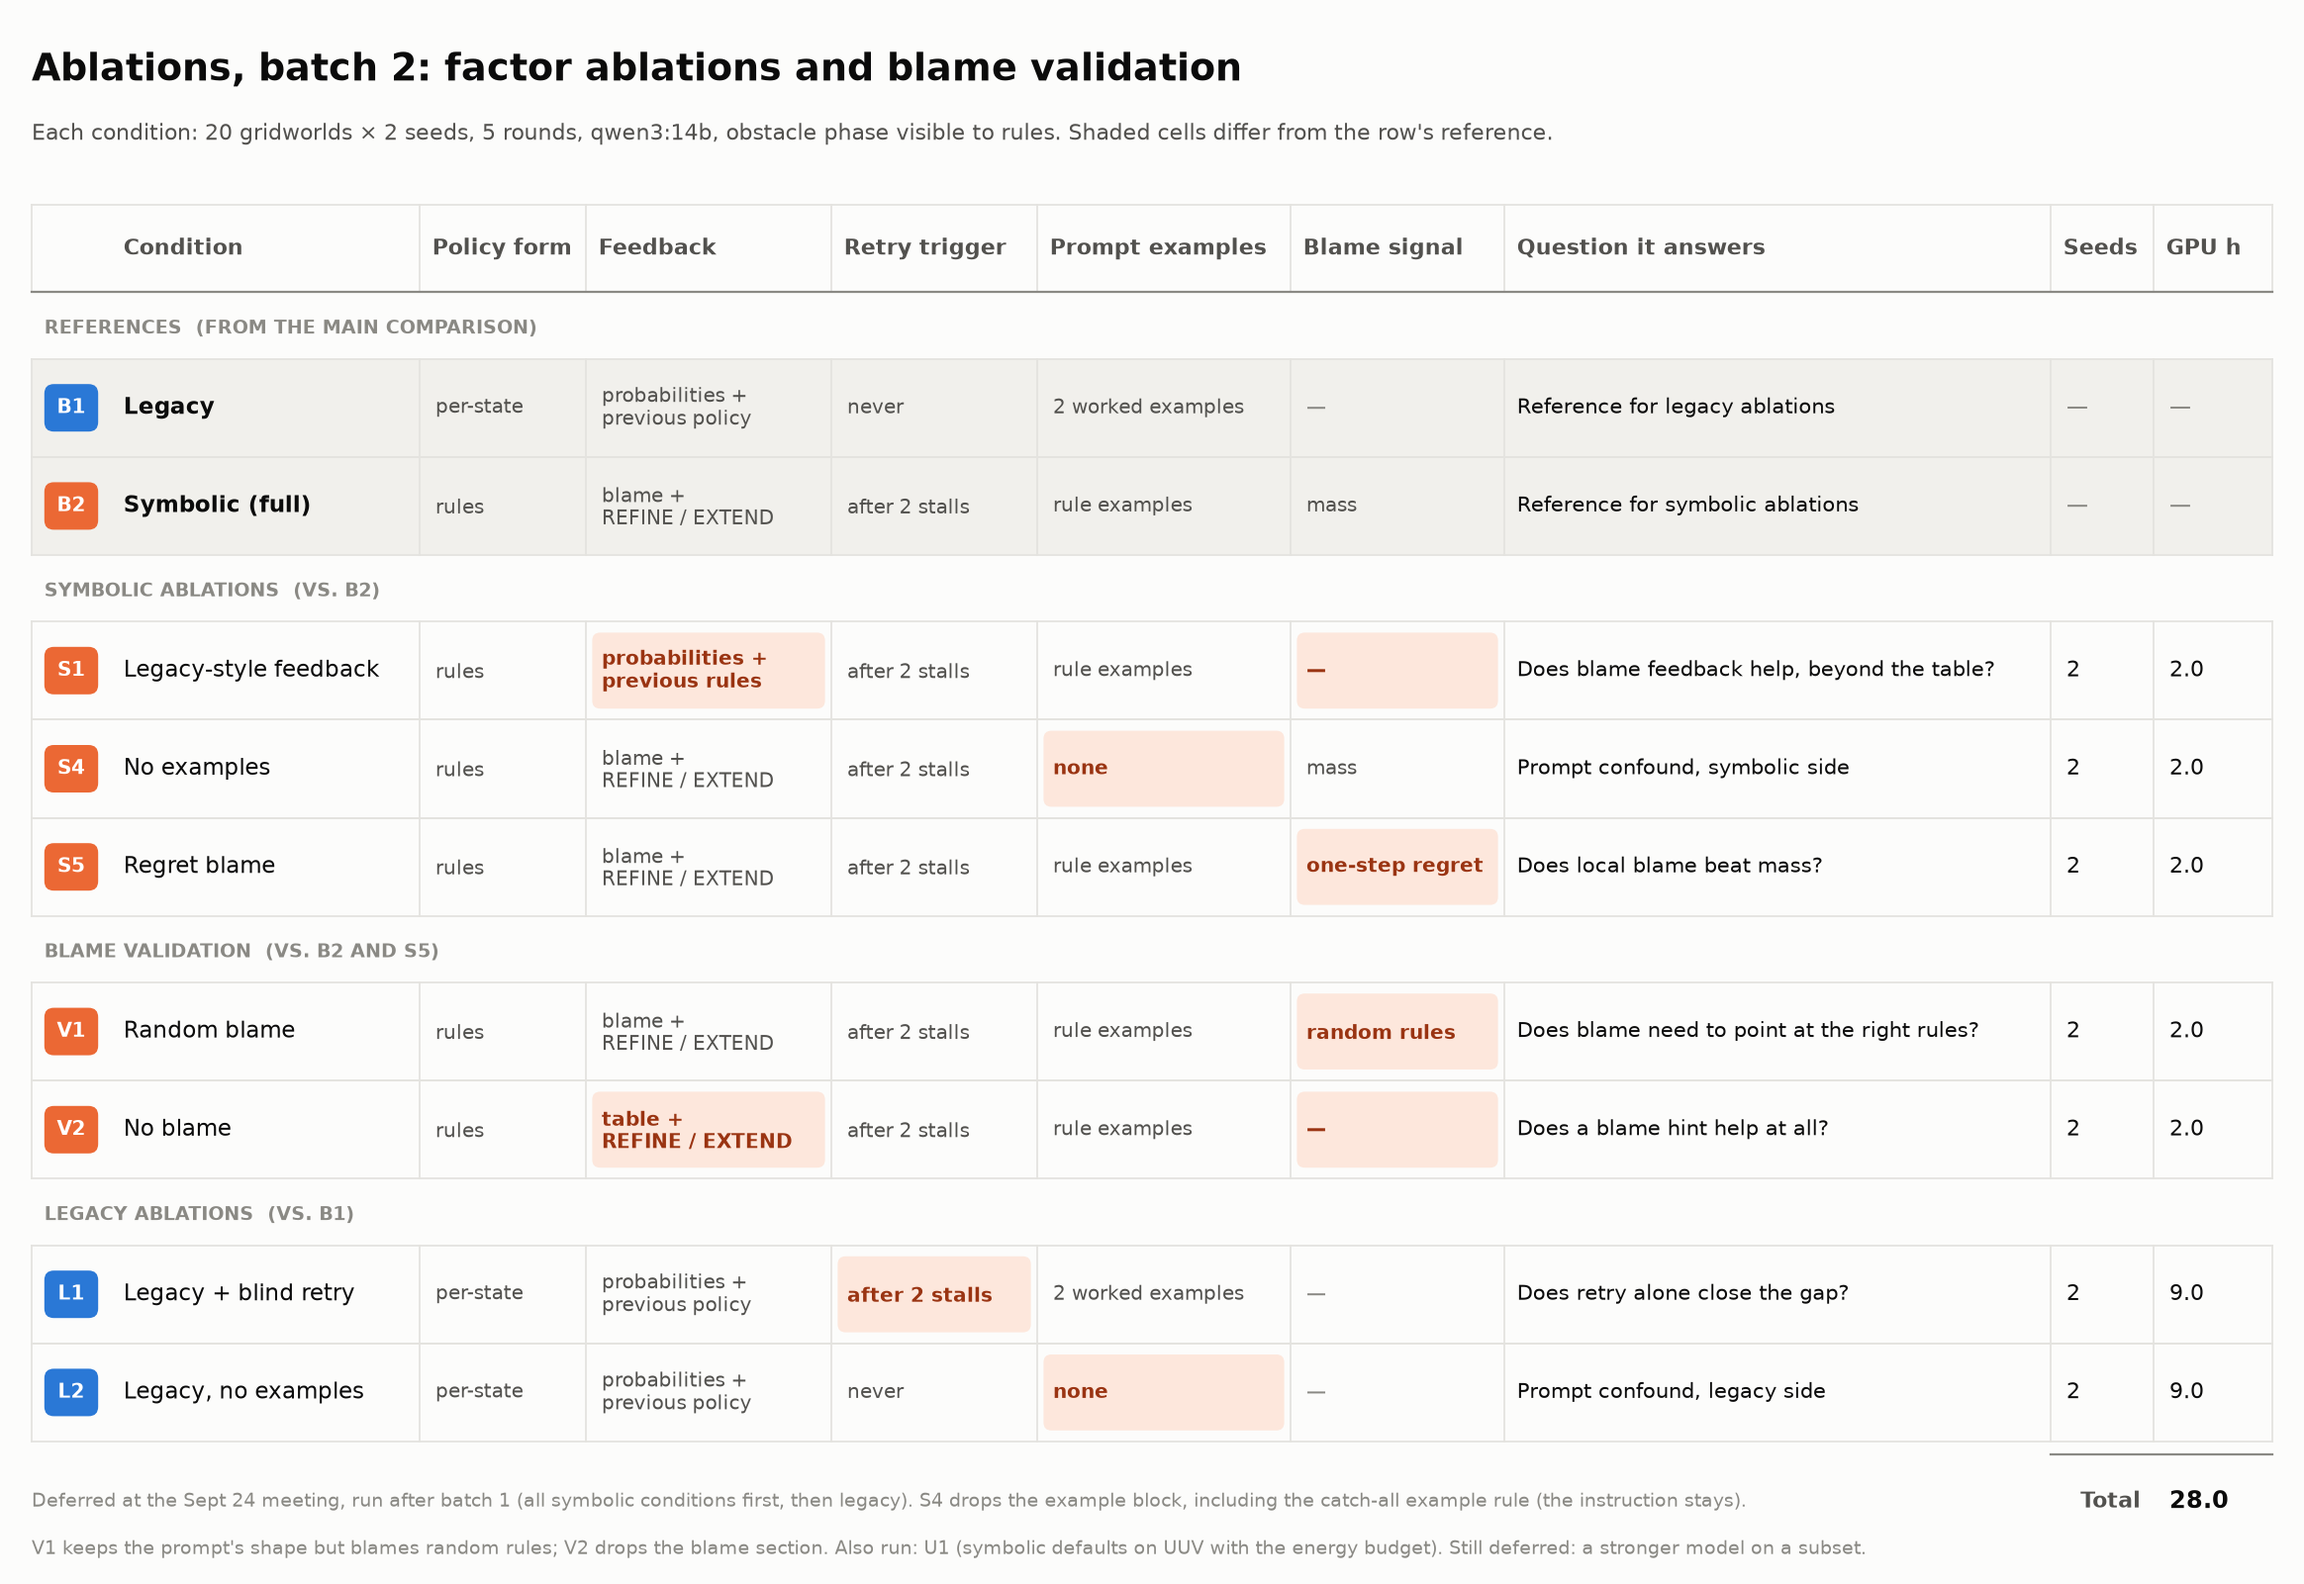
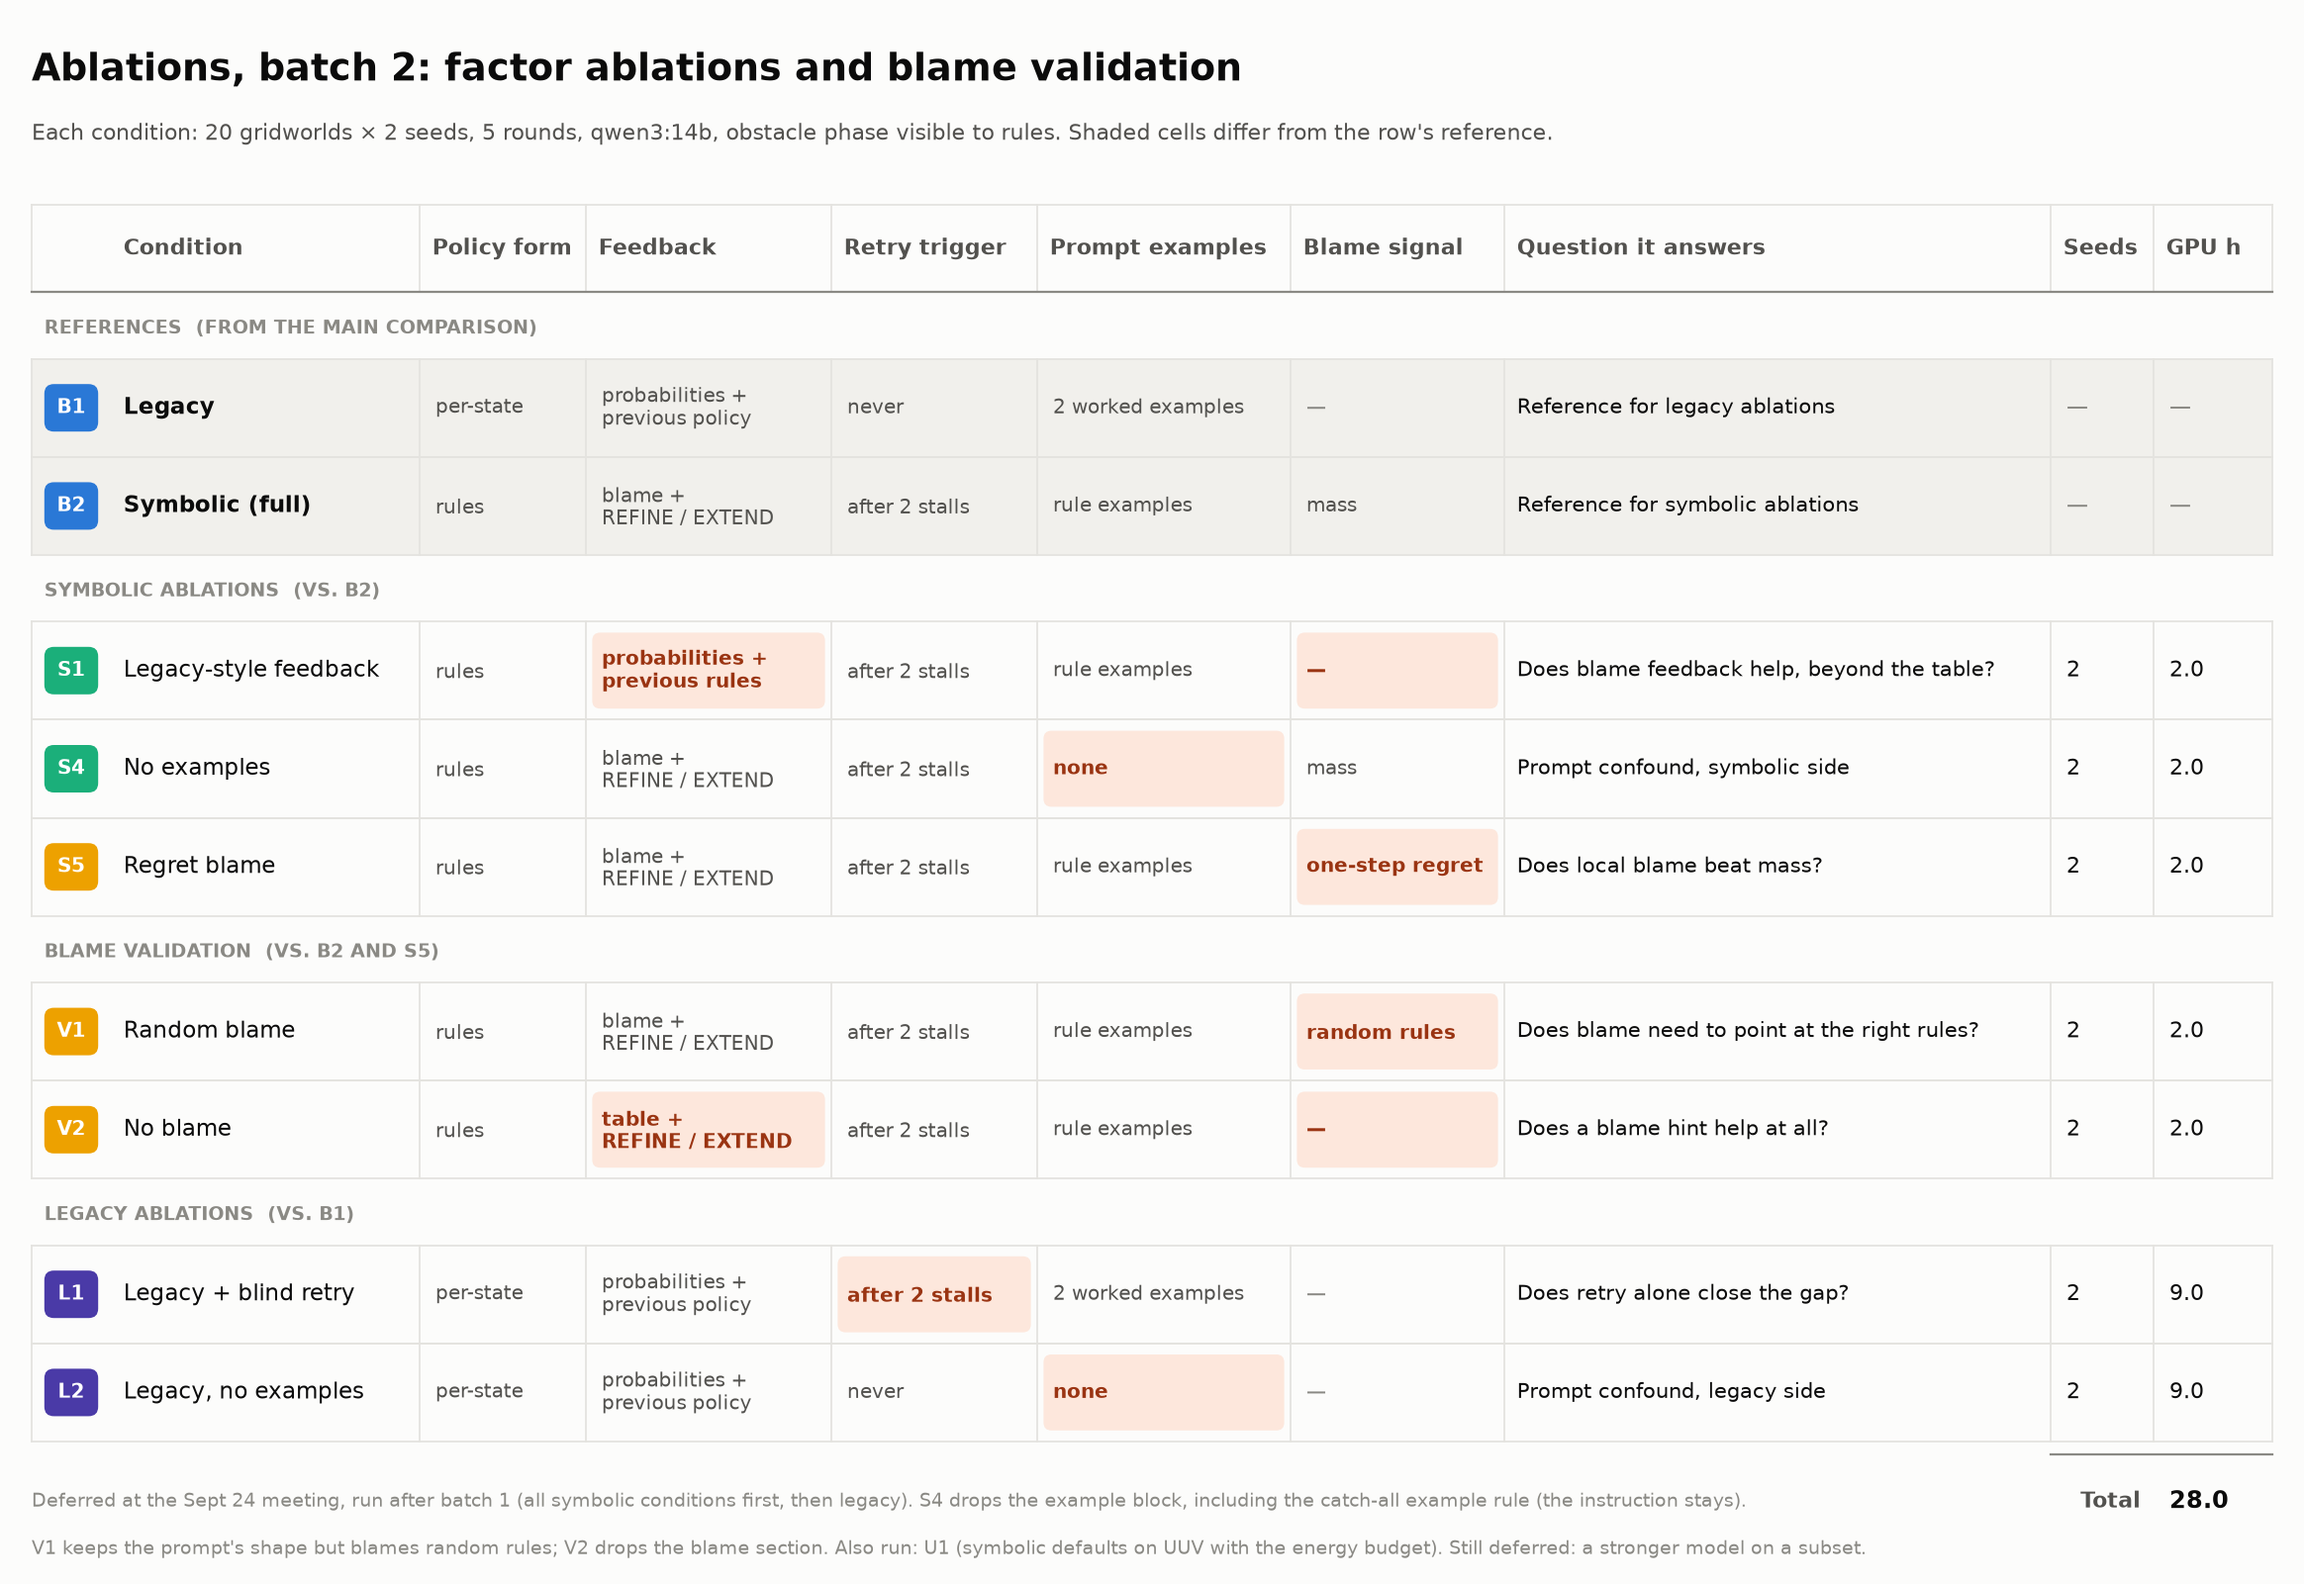
Ablation grids: badge colours by family, matching the results charts

diff --git a/PRISM-Guided-Learning/viz/plot_ablation_grid.py b/PRISM-Guided-Learning/viz/plot_ablation_grid.py
@@ -12,7 +12,13 @@ import matplotlib.pyplot as plt  # noqa: E402
 from matplotlib.patches import FancyBboxPatch, Rectangle  # noqa: E402
 
 SURFACE, INK, INK_2, INK_3, RULE = "#fcfcfb", "#0b0b0b", "#52514e", "#8a8984", "#e4e3df"
-LEGACY, SYMBOLIC = "#2a78d6", "#eb6834"
+# Badge colours by ablation family, the same as the results charts (viz/ablation_summary.py)
+FAMILY_COLORS = {"Baselines": "#2a78d6", "Retry sweep": "#eb6834", "Feedback content": "#1baf7a",
+                 "Blame signal": "#eda100", "Legacy variants": "#4a3aa7"}
+FAMILY_OF = {"B1": "Baselines", "B2": "Baselines", "R1": "Retry sweep", "R2": "Retry sweep", "R3": "Retry sweep",
+             "R4": "Retry sweep", "R5": "Retry sweep", "S1": "Feedback content", "S4": "Feedback content",
+             "S5": "Blame signal", "V1": "Blame signal", "V2": "Blame signal", "L1": "Legacy variants",
+             "L2": "Legacy variants"}
 CHANGED_FILL, CHANGED_INK = "#fde7dc", "#9a3412"   # differs from the row's reference
 REF_FILL = "#f1f0ec"
 DOCS = Path(__file__).resolve().parents[2] / "docs"
@@ -129,7 +135,7 @@ def draw(rows, title, subtitle, notes, out):
         y0, y1, mid = y - row_h, y, y - row_h / 2
         if is_ref:
             ax.add_patch(Rectangle((left, y0), xs[-1] - left, row_h, color=REF_FILL, lw=0, zorder=0))
-        color = {"legacy": LEGACY, "symbolic": SYMBOLIC}.get(family, INK_3)
+        color = FAMILY_COLORS.get(FAMILY_OF.get(rid), INK_3)
         ax.add_patch(FancyBboxPatch((xs[0] + 0.08, y0 + 0.16), xs[1] - xs[0] - 0.16, row_h - 0.32,
                                     boxstyle="round,pad=0,rounding_size=0.06", color=color, lw=0))
         ax.text((xs[0] + xs[1]) / 2, mid, rid, color="white", fontsize=9, fontweight="bold", ha="center", va="center")
